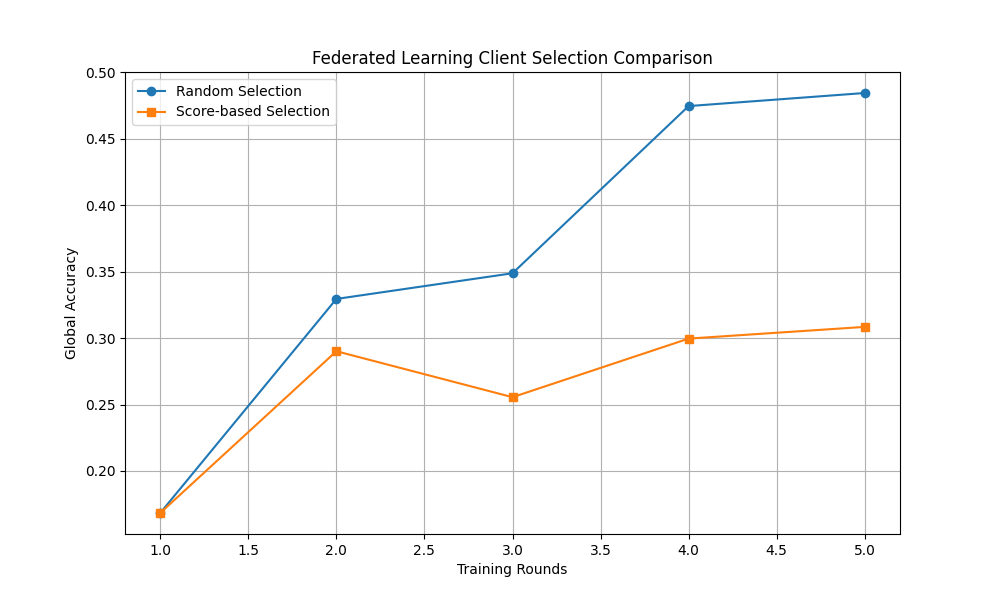
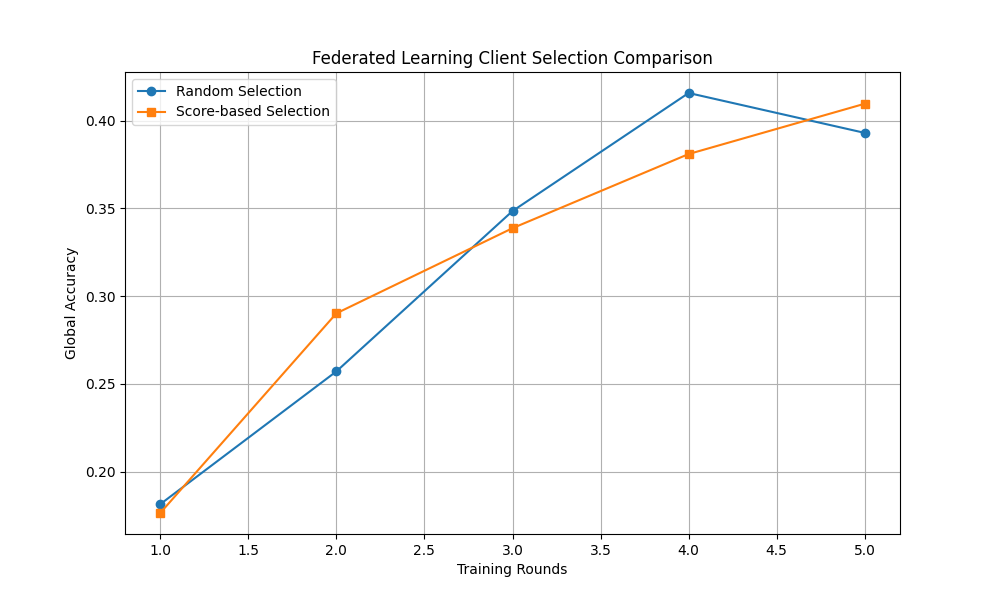
Update federated learning experiments, results, and plot

diff --git a/examples/quickstart-pytorch/pytorchexample/task.py b/examples/quickstart-pytorch/pytorchexample/task.py
@@ -7,11 +7,11 @@ from torchvision import datasets, transforms
 
 # ---------------- Model ----------------
 class Net(nn.Module):
-    def __init__(self, num_classes: int = 6):
+    def __init__(self, num_classes: int = 18):
         super().__init__()
-        # Input shape: (Batch, 9 channels, 128 sequence length)
+        # Input shape: (Batch, 3 channels, 128 sequence length)
         self.features = nn.Sequential(
-            nn.Conv1d(9, 64, kernel_size=3, padding=1), nn.ReLU(),
+            nn.Conv1d(3, 64, kernel_size=3, padding=1), nn.ReLU(),
             nn.Conv1d(64, 64, kernel_size=3, padding=1), nn.ReLU(),
             nn.Dropout(0.5),
             nn.MaxPool1d(2),                       # 128 -> 64

diff --git a/examples/quickstart-pytorch/check_data.py b/examples/quickstart-pytorch/check_data.py
@@ -101,16 +101,6 @@ def load_wisdm_watch_accel(window_size=128, stride=64):
     
     return X_tensor, y_tensor
 
-def get_har_datasets():
+if __name__ == "__main__":
     X, y = load_wisdm_watch_accel()
-    
-    dataset_size = len(y)
-    indices = torch.randperm(dataset_size, generator=torch.Generator().manual_seed(42))
-    split = int(0.8 * dataset_size)
-    
-    train_idx, test_idx = indices[:split], indices[split:]
-    
-    trainset = TensorDataset(X[train_idx], y[train_idx])
-    testset = TensorDataset(X[test_idx], y[test_idx])
-    
-    return trainset, testset
+    print("Test successful!")
